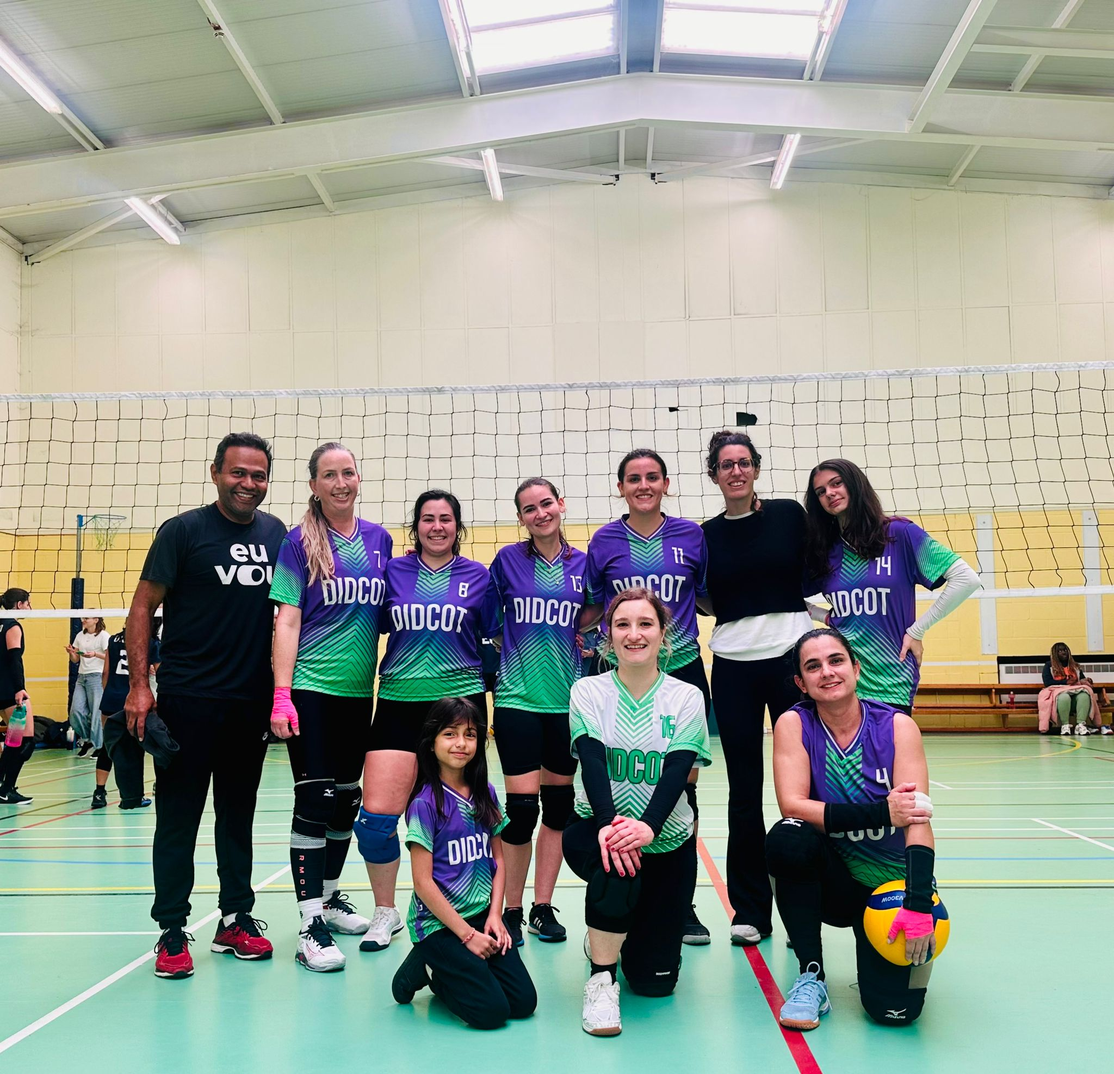
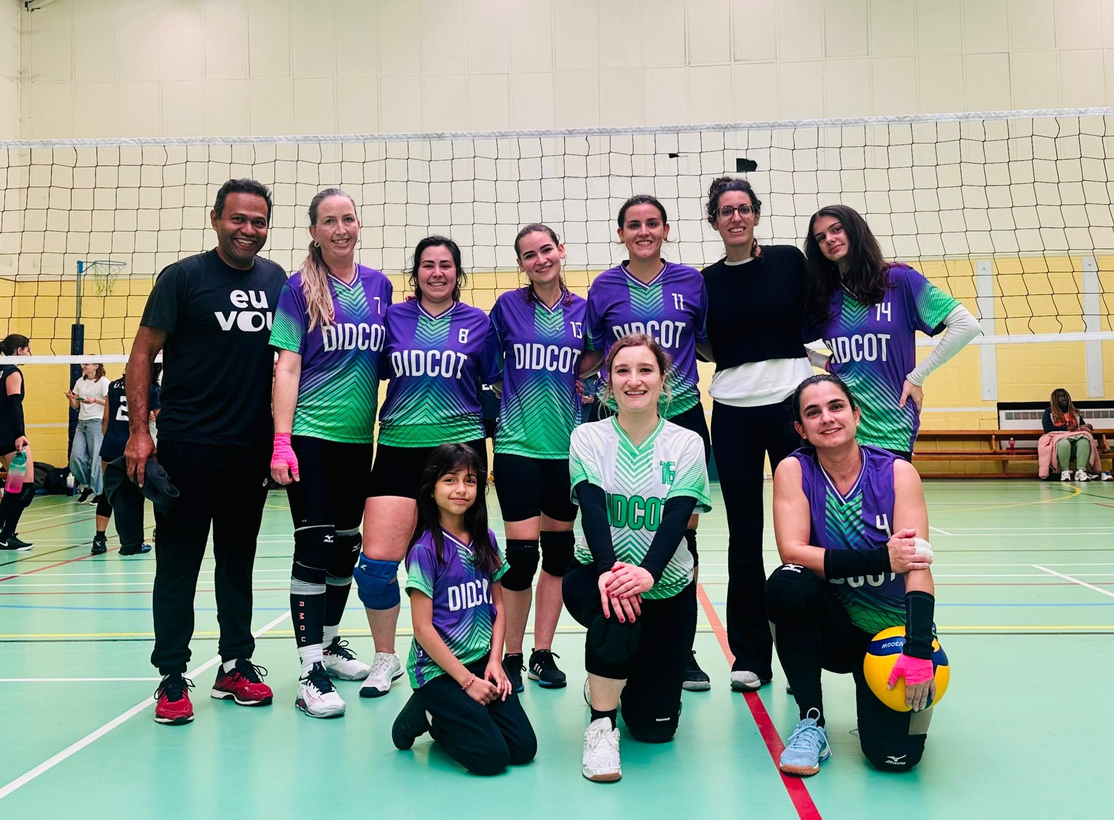
teams update with links and correct info

diff --git a/index.html b/index.html
@@ -86,7 +86,7 @@
                 <p><strong>Location:</strong> Didcot Leisure Centre, Mereland Road, Didcot, Oxfordshire OX11 8AY</p>
                 <p><strong>Time:</strong> Every Monday, 17:00 - 21:40 (Closed for Bank holidays and Christmas period) </p>
                 <p><strong>Price:</strong> £10 per session (First session is free) </p>
-                <p>Please book a spot for your attendance by signing up <a href="#contact" class="more-info-link">here  or  contact  us</a>  </p>
+                <p>Please book a spot by signing up <a href="#contact" class="more-info-link">here  or  contact  us</a>  </p>
             </div>
   
         
@@ -113,9 +113,15 @@
                 <div class="team-header">
                     <h3>Didcot Phoenix</h3>
                     <img src="images/Phoenix/Phoenix logo.jpg" alt="Didcot Phoenix Logo" class="team-logo">
+                    <div class="team-info">
+                        <a href="https://berkshirevolleyball.co.uk/" target="_blank">League: Berkshire Volleyball League Women's Div 2</a></p>
+                        <a href="https://berkshirevolleyball.co.uk/fixtures/womens-division-2/" target="_blank">Fixtures & Standings</a></p>
+                        <a href="https://www.youtube.com/playlist?list=PLv8acx8BRFEGIbqtmmWCr64ZS4vcmiSNa" target="_blank">Match recordings</a></p>
+                    </div>
                 </div>
-                <p>Didcot Phoenix is known for their strong defense and quick counter-attacks.</p>
+            
                 <img src="images/Phoenix/Phoenix team.jpg" alt="Didcot Phoenix Action Shot" class="team-photo">
+                <p>Didcot Phoenix is known for their strong defense and quick counter-attacks.</p>
             </div>
             
             <!-- Team 2 -->
@@ -123,11 +129,21 @@
                 <div class="team-header">
                     <h3>Didcot Protons</h3>
                     <img src="images/Protons/Protons Logo.jpg" alt="Didcot Proton Logo" class="team-logo">
+                    <div class="team-info">
+                        <div class="team-info">
+                            <a href="https://berkshirevolleyball.co.uk/" target="_blank">League: Berkshire Volleyball League Men's Div 2</a></p>
+                            <a href="https://berkshirevolleyball.co.uk/fixtures/mens-division-2/" target="_blank">Fixtures & Standings</a></p>
+                            <a href="https://www.youtube.com/playlist?list=PLv8acx8BRFEHYXmAlnwvmeYBCKDyE6PBv" target="_blank">Match recordings</a></p>
+                        </div>
+                    </div>
                 </div>
-                <p>Didcot Protons has an aggressive offensive strategy and skilled playmakers.</p>
+               
                 <img src="images/Protons/Protons team.jpg" alt="Didcot Protons Action Shot" class="team-photo">
+                <p>Didcot Protons has an aggressive offensive strategy and skilled playmakers.</p>
             </div>
         </div>
+
+        <p>Check out some images from the league games <a href="#gallery" class="more-info-link">here</a> </p>
     </section>
     
 

diff --git a/styles.css b/styles.css
@@ -453,7 +453,6 @@ p {
     
 
 /*Teams */
-
 #teams {
     text-align: center;
     padding: 20px;
@@ -480,27 +479,38 @@ p {
 
 .team-header {
     display: flex;
-    justify-content: center;
-    align-items: center;
-    margin-bottom: 15px;
+    justify-content: center; /* Centers content horizontally */
+    align-items: center; /* Centers content vertically */
+    margin-bottom: 10px; /* Reduced space between header and photo */
+    width: 100%; /* Ensures header takes full width */
 }
 
 .team-header h3 {
-    margin-right: 15px;
+    margin: 0; /* Removes default margin */
+    margin-right: 15px; /* Space between the h3 and logo */
 }
 
 .team-logo {
-    width: 100%; /* Ensure the logo fits within its container */
-    max-width: 50px; /* Max size for the logo */
-    height: auto; /* Maintains the aspect ratio */
-    object-fit: contain; /* Ensures the logo stays contained */
-    margin: 0 auto; /* Centers the logo */
+    width: 120px; /* Fixed size for logos */
+    height: 120px; /* Fixed size for logos */
+    object-fit: contain; /* Ensures logo keeps aspect ratio */
+}
+
+
+.team-info {
+    margin-left: 20px; /* Adds space between logo and info */
+    text-align: left; /* Align text to the left */
+}
+
+.team-info p {
+    margin: 5px 0; /* Space between each line of information */
 }
 
 .team-photo-container {
     position: relative;
     width: 100%; /* Matches the width of the card */
-    height: 250px; /* Fixed height for uniformity */
+    height: 0; /* Height set to 0 to control aspect ratio */
+    padding-top: 75%; /* Adjust this value to change the aspect ratio */
     overflow: hidden; /* Prevents content from spilling out */
     display: flex;
     justify-content: center; /* Horizontally centers the photo */
@@ -509,12 +519,18 @@ p {
 }
 
 .team-photo {
-    width: 100%; /* Ensures the photo stretches across the container */
-    max-width: 100%; /* Limits the width */
-    height: auto; /* Maintains the aspect ratio of the photo */
-    object-fit: contain; /* Keeps the image contained within the container */
-    object-position: center; /* Ensures the image is centered */
+    width: 80%; /* Reduce image width to 80% of the container width */
+    height: 80%; /* Reduce image height to 80% of the container height */
+    object-fit: contain; /* Ensures the image scales proportionally */
+    object-position: center; /* Ensures the image stays centered */
+    margin-top: 5px; /* Reduced margin between header and image */
 }
 
+.team-info a {
+    color: #007bff; /* Blue color for the link */
+    text-decoration: none; /* Removes the underline */
+}
 
-
+.team-info a:hover {
+    text-decoration: underline; /* Underline on hover */
+}
